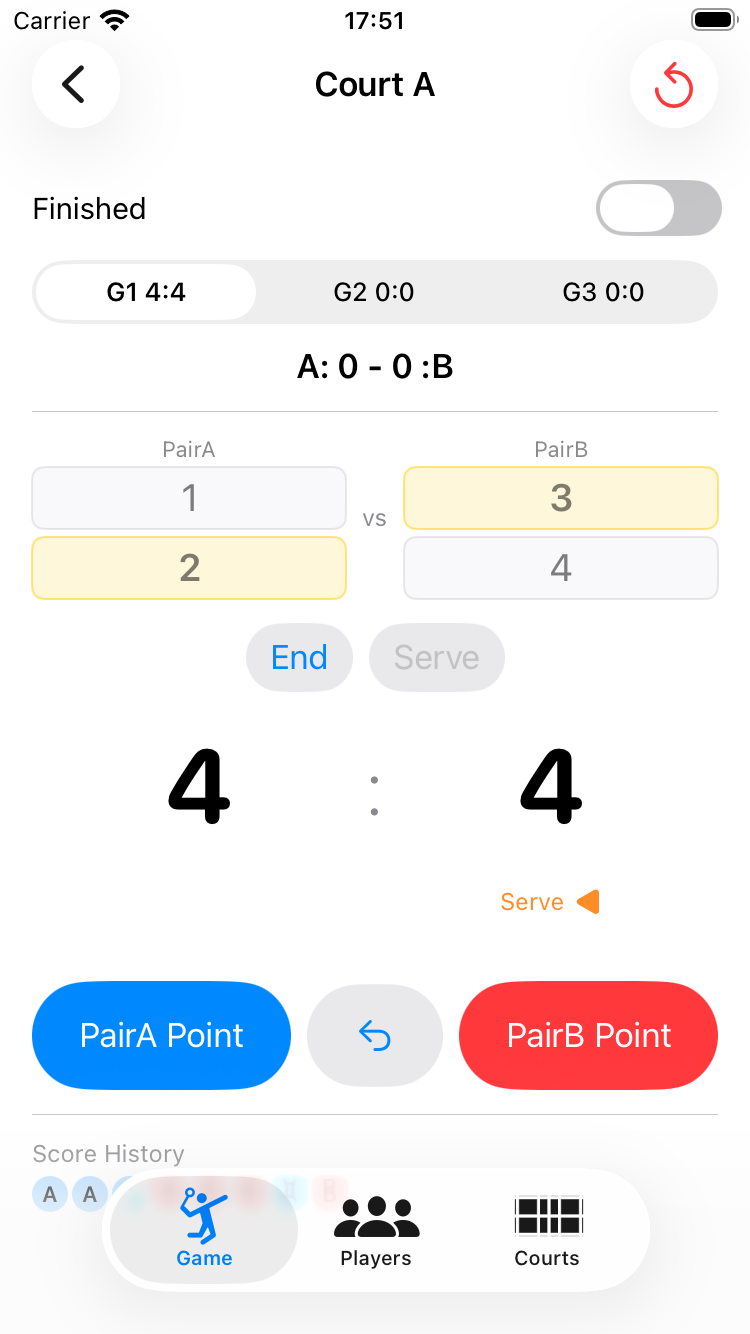
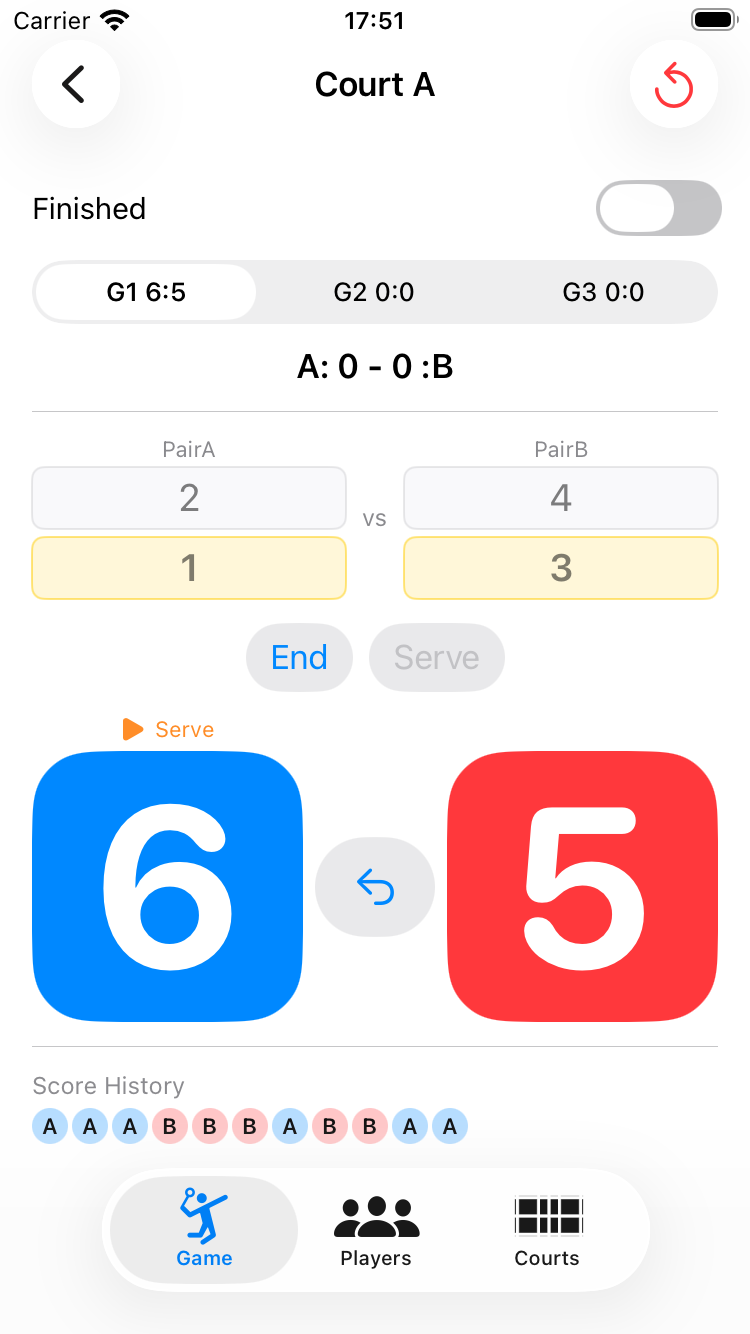
スコア入力画面のレイアウト再設計をドキュメントに反映
得点ボタンをスコア表示に統合した新しいUIに合わせて
game-tab.html、更新履歴、スコア画面キャプチャを更新。

diff --git a/game-tab.html b/game-tab.html
@@ -74,13 +74,13 @@
 <div class="tip">💡 プレイヤーごと最初からやり直したい場合は、Players タブの「プレイヤーのリセット」をご利用ください。</div>
 
 <h2 id="score-input">5. スコア入力</h2>
-<p>Game タブのゲーム行をタップすると、スコア入力画面が開きます。画面上部には、そのコートで何ゲーム目かを切り替える <code>G1 / G2 / G3</code> ピッカーと、ここまでの勝ちゲーム数（<code>A: 0 - 0 :B</code>）が表示されます。いずれも常に <strong>PairA:PairB</strong> の順で固定表示され、後述のエンドチェンジを行っても入れ替わりません。</p>
-<p>その下のプレイヤー表示には、それぞれ <strong>PairA</strong> / <strong>PairB</strong>（内部の pairA・pairB に対応）のラベルが付きます。こちらはエンドチェンジで実際の左右位置が入れ替わると、表示も一緒に切り替わります。</p>
+<p>Game タブのゲーム行をタップすると、スコア入力画面が開きます。画面は上から順に、<code>Finished</code>（終了）トグル、そのコートで何ゲーム目かを切り替える <code>G1 / G2 / G3</code> ピッカーとここまでの勝ちゲーム数（<code>A: 0 - 0 :B</code>）、プレイヤー表示、<code>End</code> / <code>Serve</code> ボタン、得点ボタンという構成です。勝ちゲーム数とゲームピッカーのスコアは、常に <strong>PairA:PairB</strong> の順で固定表示され、後述のエンドチェンジを行っても入れ替わりません。</p>
+<p>プレイヤー表示には、それぞれ <strong>PairA</strong> / <strong>PairB</strong>（内部の pairA・pairB に対応）のラベルが付きます。こちらはエンドチェンジで実際の左右位置が入れ替わると、表示も一緒に切り替わります。</p>
 <div class="ss"><img src="images/score-main.png" alt="スコア入力画面"></div>
 
 <h3 id="input-score">得点を入力する</h3>
-<p>画面下部の <code>PairA Point</code>（得点 PairA）または <code>PairB Point</code>（得点 PairB）ボタンをタップすると、それぞれのペアに1点が加算されます。ボタンは画面左右の位置に固定されており、後述のエンドチェンジでペアが入れ替わると、ボタンのラベルもそれに合わせて切り替わります。</p>
-<p>得点に合わせてサーブ権が自動で切り替わり、サーブ権を持つプレイヤーが青色で表示されます。</p>
+<p>画面下部の青（PairA）・赤（PairB）の大きなボタンに、それぞれの現在の得点が数字で表示されています。このボタンをタップすると、そのペアに1点が加算されます。ボタンは画面左右の位置に固定されており、後述のエンドチェンジでペアが入れ替わると、表示される数字（担当するペア）もそれに合わせて切り替わります。</p>
+<p>得点に合わせてサーブ権が自動で切り替わり、サーブ権を持つプレイヤーが青色で表示されます。ボタンの真上には、サーブ権を持つ側に「Serve」の表示が出ます。</p>
 <div class="tip">💡 得点は最大 30 点まで入力できます。</div>
 
 <h3 id="undo-score">得点を取り消す</h3>

diff --git a/update-history.html b/update-history.html
@@ -25,6 +25,7 @@
   <li>スコア履歴の表示、および結果メールのペア表記・得点シーケンスも L/R から A/B（PairA/PairB）表記に統一</li>
   <li>スコア画面のゲーム切り替えタブ（G1/G2/G3）のスコア表示が、エンドチェンジのたびに左右入れ替わって表示されてしまう不具合を修正（常に PairA:PairB の順で固定表示）</li>
   <li>スコア画面の勝ちゲーム数の表示も、同様にエンドチェンジで入れ替わってしまう不具合を修正し、「A: 0 - 0 :B」の形式で常に固定表示するよう変更。ゲーム切り替えタブと合わせて画面上部に配置</li>
+  <li>スコア入力画面のレイアウトを全面的に整理。「Finished」トグルを画面最上部に移動し、得点ボタンを大きな正方形ボタンに変更してスコアの数字を直接表示するように統合（従来の得点表示とボタンをひとつにまとめ、タップ操作をより分かりやすく）</li>
 </ul>
 
 <h2>v1.19.0</h2>
